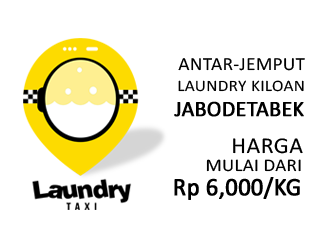
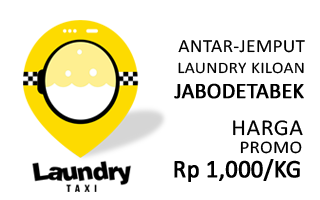
update home promo

diff --git a/www/templates/home.html b/www/templates/home.html
@@ -2,7 +2,7 @@
   <ion-content class="login-content">
       <div class="content">
           <div class="row logo text-center">
-              <img src="img/home-head.png" />
+              <img src="img/home-head.png?v=1" />
           </div>
           <div class="list button-form-group text-center">
               <button type="button" ng-click="getDeliver()" class="uver-btn btn-cancel">
